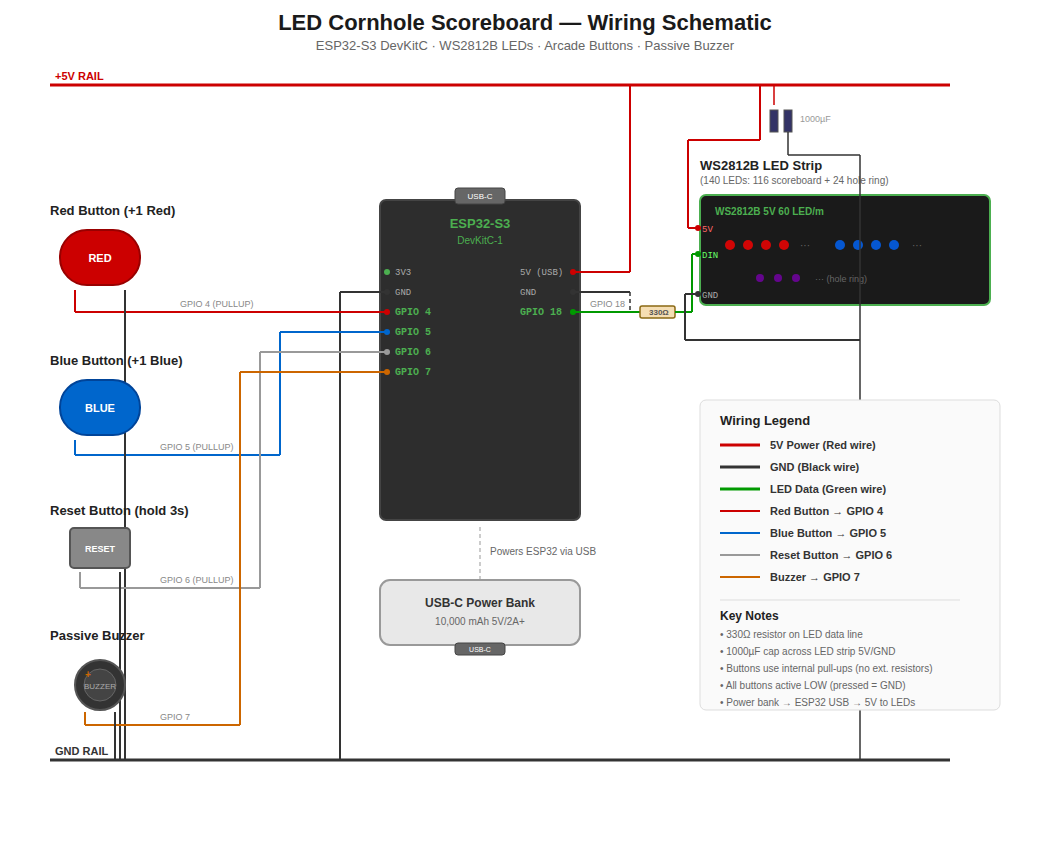
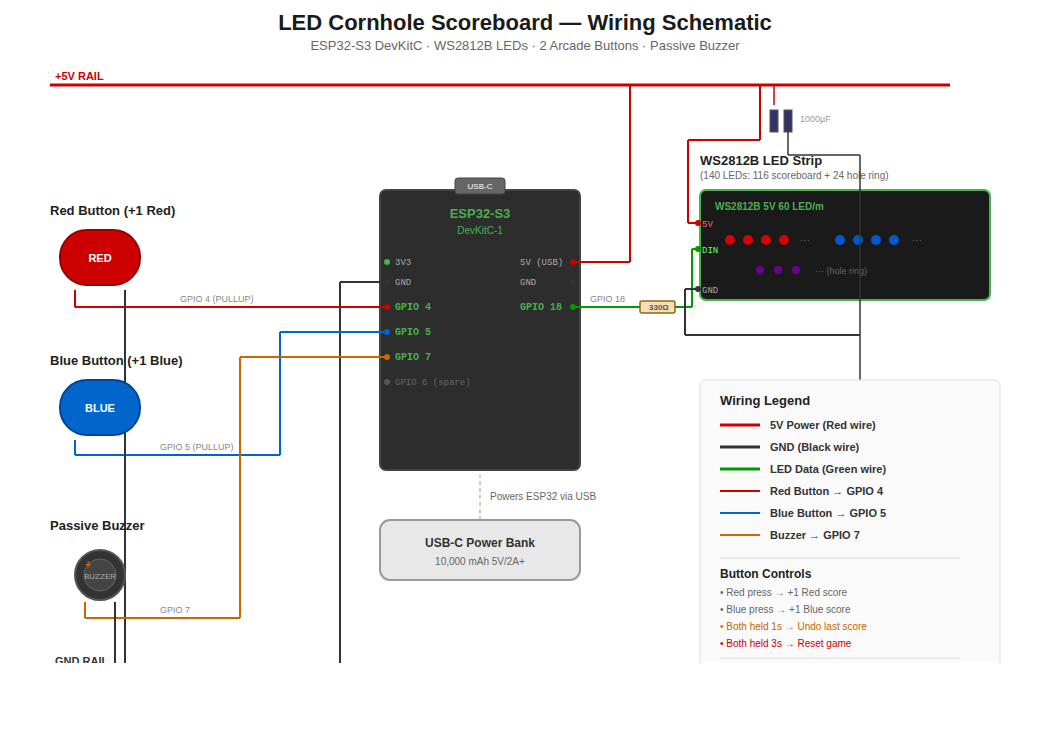
refactor: Remove reset button — both buttons held 1s=undo, 3s=reset
- Removed dedicated reset button (GPIO 6 now spare)
- Hold both red+blue 1s = undo last score
- Hold both red+blue 3s = reset game
- Updated buttons.cpp, config.h, main.cpp, wiring schematic
- Cleaner board design with only 2 buttons

diff --git a/firmware/src/buttons.cpp b/firmware/src/buttons.cpp
@@ -3,58 +3,57 @@
 
 static unsigned long lastRedPress = 0;
 static unsigned long lastBluePress = 0;
-static unsigned long resetPressStart = 0;
 static unsigned long bothPressStart = 0;
-static bool resetHeld = false;
 static bool bothHeld = false;
 static bool undoFired = false;
+static bool resetFired = false;
 
 void buttons_init() {
     pinMode(PIN_BTN_RED, INPUT_PULLUP);
     pinMode(PIN_BTN_BLUE, INPUT_PULLUP);
-    pinMode(PIN_BTN_RESET, INPUT_PULLUP);
     
-    Serial.println("[BUTTONS] Initialized (INPUT_PULLUP, active LOW)");
+    Serial.println("[BUTTONS] Initialized (2 buttons: Red + Blue)");
+    Serial.println("[BUTTONS] Both held 1s = Undo, Both held 3s = Reset");
 }
 
 ButtonEvent buttons_poll() {
     unsigned long now = millis();
     bool redDown = (digitalRead(PIN_BTN_RED) == LOW);
     bool blueDown = (digitalRead(PIN_BTN_BLUE) == LOW);
-    bool resetDown = (digitalRead(PIN_BTN_RESET) == LOW);
     
-    // --- Undo: both red + blue held for UNDO_HOLD_MS ---
+    // --- Both buttons held: Undo (1s) or Reset (3s) ---
     if (redDown && blueDown) {
         if (!bothHeld) {
             bothPressStart = now;
             bothHeld = true;
             undoFired = false;
-        } else if (!undoFired && (now - bothPressStart >= UNDO_HOLD_MS)) {
-            undoFired = true;
-            // Reset individual press tracking so releasing doesn't trigger single presses
+            resetFired = false;
+        }
+        
+        unsigned long holdTime = now - bothPressStart;
+        
+        // Reset at 3 seconds (fires once)
+        if (!resetFired && holdTime >= RESET_HOLD_MS) {
+            resetFired = true;
+            // Also suppress undo re-fire and single presses on release
             lastRedPress = now;
             lastBluePress = now;
-            Serial.println("[BUTTONS] UNDO (both held)");
+            Serial.println("[BUTTONS] RESET (both held 3s)");
+            return BTN_RESET_HOLD;
+        }
+        
+        // Undo at 1 second (fires once)
+        if (!undoFired && holdTime >= UNDO_HOLD_MS) {
+            undoFired = true;
+            lastRedPress = now;
+            lastBluePress = now;
+            Serial.println("[BUTTONS] UNDO (both held 1s)");
             return BTN_UNDO;
         }
+        
         return BTN_NONE;
     } else {
         bothHeld = false;
-    }
-    
-    // --- Reset: held for RESET_HOLD_MS ---
-    if (resetDown) {
-        if (!resetHeld) {
-            resetPressStart = now;
-            resetHeld = true;
-        } else if (now - resetPressStart >= RESET_HOLD_MS) {
-            resetHeld = false; // Only fire once per hold
-            Serial.println("[BUTTONS] RESET (held 3s)");
-            return BTN_RESET_HOLD;
-        }
-        return BTN_NONE;
-    } else {
-        resetHeld = false;
     }
     
     // --- Red button: single press with debounce ---

diff --git a/firmware/include/config.h b/firmware/include/config.h
@@ -30,15 +30,15 @@
 
 // --- Game Settings ---
 #define WINNING_SCORE       21
-#define RESET_HOLD_MS       3000    // Hold reset 3s to reset game
 #define UNDO_HOLD_MS        1000    // Hold both buttons 1s to undo last score
+#define RESET_HOLD_MS       3000    // Hold both buttons 3s to reset game
 
 // --- Pin Definitions (ESP32-S3 DevKitC) ---
 #define PIN_LED_DATA        18      // WS2812B data line (via 330Ω resistor)
 #define PIN_BTN_RED         4       // Red team +1 button (INPUT_PULLUP, active LOW)
 #define PIN_BTN_BLUE        5       // Blue team +1 button (INPUT_PULLUP, active LOW)
-#define PIN_BTN_RESET       6       // Reset button (INPUT_PULLUP, active LOW)
 #define PIN_BUZZER          7       // Passive buzzer
+// No dedicated reset button — hold both red+blue for 3s to reset
 
 // --- LED Layout ---
 // Scoreboard: 4 digits × 7 segments × 4 LEDs/segment = 112, plus 4 separator dots = 116

diff --git a/firmware/src/main.cpp b/firmware/src/main.cpp
@@ -74,10 +74,10 @@ void setup() {
     
     Serial.println();
     Serial.println("[MAIN] Ready to play! Waiting for button presses...");
-    Serial.println("[MAIN] Red button  → +1 Red");
-    Serial.println("[MAIN] Blue button → +1 Blue");
-    Serial.println("[MAIN] Both held   → Undo last");
-    Serial.println("[MAIN] Reset held  → New game");
+    Serial.println("[MAIN] Red button    → +1 Red");
+    Serial.println("[MAIN] Blue button   → +1 Blue");
+    Serial.println("[MAIN] Both held 1s  → Undo last score");
+    Serial.println("[MAIN] Both held 3s  → Reset game");
     Serial.println();
 }
 

diff --git a/firmware/src/buttons.h b/firmware/src/buttons.h
@@ -8,8 +8,8 @@ enum ButtonEvent {
     BTN_NONE,
     BTN_RED_PRESS,
     BTN_BLUE_PRESS,
-    BTN_RESET_HOLD,
-    BTN_UNDO       // Both red+blue held together
+    BTN_UNDO,          // Both held 1 second
+    BTN_RESET_HOLD     // Both held 3 seconds
 };
 
 void buttons_init();
